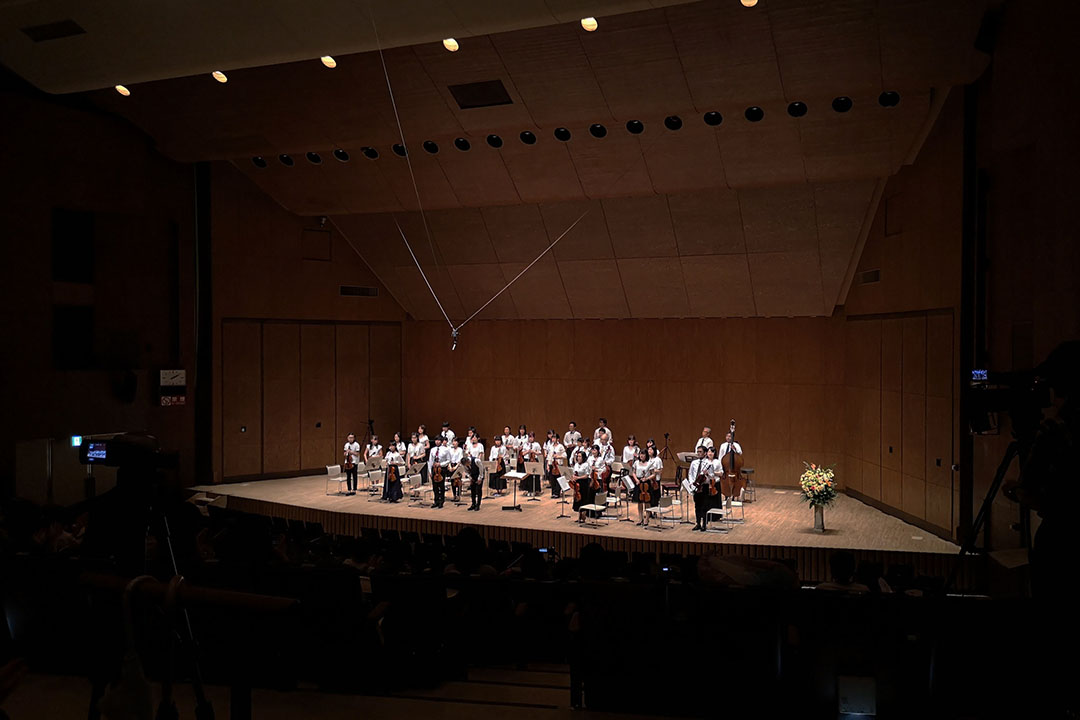
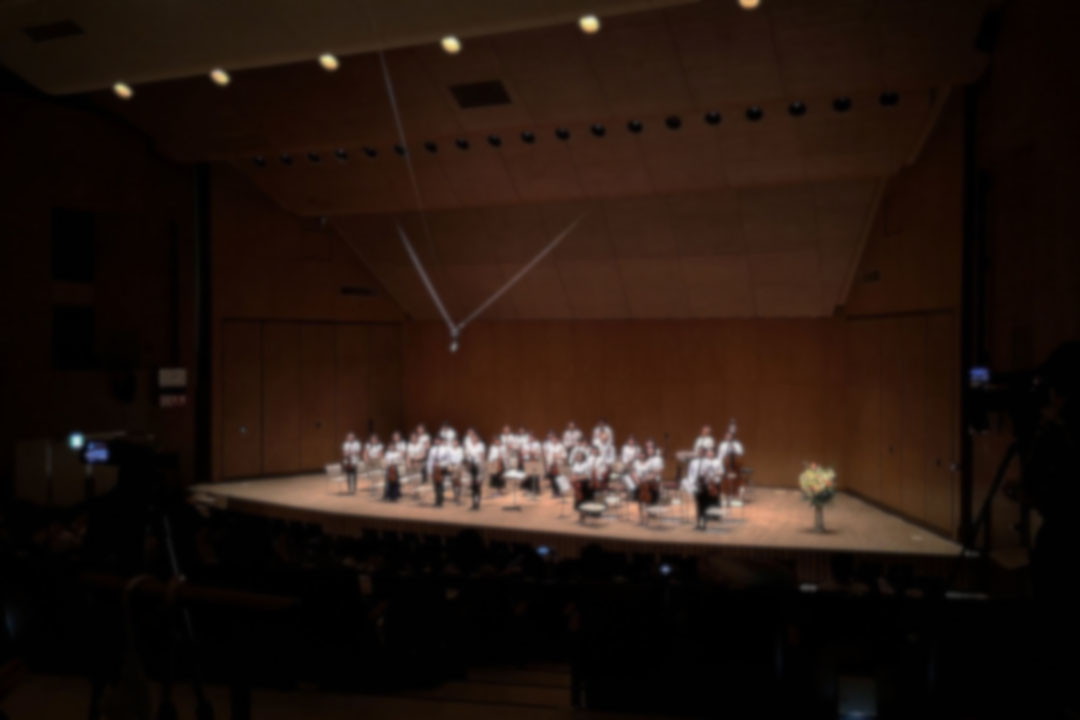
2022 concert announcement done

diff --git a/_includes/indexhero4.html b/_includes/indexhero4.html
@@ -1,8 +1,15 @@
-<!-- include block 'indexhero4' starts here -->
+<!-- include block 'indexhero4' starts here. Special version for 2022 concert -->
 <div data-jarallax class="jarallax style-indexhero d-table" id="index4">
-        <div class="style-header-lede align-middle d-table-cell">
-                <h2>発表会などのご見学</h2>
-                <span class="lead">お待ちしております。お問い合わせフォーム</span>
+    <div class="container h-100">
+        <div class="row h-100">
+            <div class="col-lg-5 col-md-6 col-12 my-auto px-5 pt-5">
+                <img src="{{ site.baseurl }}/assets/img/2022concert-frontcover-500.jpg">
+            </div>
+            <div class="col-lg-7 col-md-6 col-12 my-auto pb-5">
+                <h2>第62回 発表会</h2>
+                <span class="lead">2022年の発表会は、9月4日（日）に神奈川県立音楽堂にて開催いたします。<a href="{{ site.baseurl }}blog/2022/07/27/2022concert.html">もっと詳しく</a></lead>
+            </div>
         </div>
+    </div>
 </div>
-<!-- include block 'indexhero4' ends here -->
+<!-- include block 'indexhero4' ends here. Special version for 2022 concert -->

diff --git a/_layouts/post.html b/_layouts/post.html
@@ -1,0 +1,18 @@
+<!doctype html>
+<html lang="ja">
+        {% include head.html %}
+        <body id="top">
+                {% include navbar.html %}
+                <!-- header jumbotron -->
+                <div data-jarallax class="jarallax style-page-hero d-table" style="background-image: url('{{ site.baseurl }}{{ page.hero }}');" id="intro">
+                        <div class="style-header-lede align-middle d-table-cell">
+                                <h1>{{ page.title }}</h1>
+                        </div>
+                </div>
+                <div class="container style-content">
+                      {{ content }}  
+                </div>
+                {% include footer.html %}
+                {% include js.html %}
+        </body>
+</html>

diff --git a/_includes/indexhero4-standard.html b/_includes/indexhero4-standard.html
@@ -1,0 +1,8 @@
+<!-- include block 'indexhero4' starts here -->
+<div data-jarallax class="jarallax style-indexhero d-table" id="index4">
+        <div class="style-header-lede align-middle d-table-cell">
+                <h2>発表会などのご見学</h2>
+                <span class="lead">お待ちしております。お問い合わせフォーム</span>
+        </div>
+</div>
+<!-- include block 'indexhero4' ends here -->

diff --git a/assets/style.css b/assets/style.css
@@ -104,7 +104,8 @@ span.lead {
 }
 
 #index4 {
-        background-image:url("/assets/img/concert-1080.jpg")
+        /* background-image:url("/assets/img/concert-1080.jpg") */
+        background-image:url("/assets/img/concertall-1080-blurred.jpg")
 }
 
 .style-indexintro {

diff --git a/_posts/2022-07-27-2022concert.md b/_posts/2022-07-27-2022concert.md
@@ -1,0 +1,53 @@
+---
+layout: post
+title: 第62回 発表会
+hero: /assets/img/concertall-1080.jpg
+---
+
+今年も発表会の季節がまいりました。<br>
+下記の通り、発表会を開催することとなりましたので、お知らせいたします。<br>
+牧野ヴァイオリン教室の生徒さんの一年間のがんばりの集大成をぜひご覧いただきたく存じます。
+
+## 開催概要
+
+| 日時 | 2022年9月4日（日） 11:30 開演 |
+| 会場 | 神奈川県立音楽堂<br>〒220-0044 神奈川県横浜市西区紅葉ヶ丘9-2（[Google Maps](https://goo.gl/maps/XufiQMMJms18DAD48)）<br>JR・横浜市営地下鉄桜木町駅より徒歩10分 |
+| 入場料 | 無料 |
+{: .table .table-dark .table-striped .table-responsive-md .style-table}
+
+## チケット制について
+
+### 見学ご希望の方
+
+発表会は、牧野ヴァイオリン教室では一年間で最も大きなイベントとなっております。<br>
+ぜひ当ヴァイオリン教室を知っていただき、一年の練習の成果を披露する生徒さんの演奏をご覧いただけたらと存じます。
+
+なお、当ヴァイオリン教室の発表会では、コロナ感染拡大予防のため入場者の住所・氏名などをご記入いただく「チケット制（無料）」としております。<br>
+当ヴァイオリン教室への入会をご検討で発表会の見学をご希望の方は、[お問い合わせフォーム]({{ site.baseurl }}/contact.html)よりご連絡ください。
+
+また、ぜひ発表会でお会いしたいですが、発表会開催時期の感染傾向の動向や当日ご体調に不安のある方は、恐れ入りますがご来場を控えていただければ幸いです。
+
+### OB・OG の方
+
+コロナ感染拡大予防のため、今年の発表会も昨年同様住所・氏名などをご記入いただくチケット制となっております。<br>
+OB・OG の方は先生にご連絡いただくか、ご交流のある生徒さんの保護者経由で役員までご連絡ください。<br>
+または、当日直接受付にて入場のお手続きをしていただいても構いません。
+
+なお、例年「みんなで合奏」の際には、OB・OG のみなさまにも現役生といっしょに音楽堂の舞台に上がっていただき、一緒に演奏を楽しんでいただいております。<br>
+あいにく今年は、感染拡大防止のため舞台に上がれる人数に制限を設けております。<br>
+そのため、今年の発表会の最後を締めくくる「みんなの合奏」では、客席にて演奏していただくこととなりますことをご了承ください。
+
+また、ぜひ発表会でお会いしたいですが、発表会開催時期の感染傾向の動向や当日ご体調に不安のある方は、恐れ入りますがご来場を控えていただければ幸いです。
+
+#### みんなで合奏 曲目
+
+| タンブラン（グレトリー）8巻 |
+| ガヴォット（ラモー）6巻 |
+| アレグロ（フィオッコ）6巻 |
+| 無窮動（ボーム）4巻 |
+| 協奏曲第5番第1楽章（ザイツ）4巻 |
+| メヌエット（ベートーベン）2巻 |
+| ワルツ（ブラームス）2巻 |
+| むすんでひらいて（外国民謡）1巻 |
+| きらきら星変奏曲（鈴木鎮一）1巻 |
+{: .table .table-dark .table-striped .table-responsive-md .style-table}

diff --git a/blog.md b/blog.md
@@ -1,0 +1,14 @@
+---
+layout: page
+title: ブログ
+hero: /assets/img/speech-1080.jpg
+---
+
+<ul>
+    {% for post in site.posts %}
+      <li>
+        <h2><a href="{{ post.url }}">{{ post.title }}</a></h2>
+        {{ post.excerpt }}
+      </li>
+    {% endfor %}
+  </ul>
